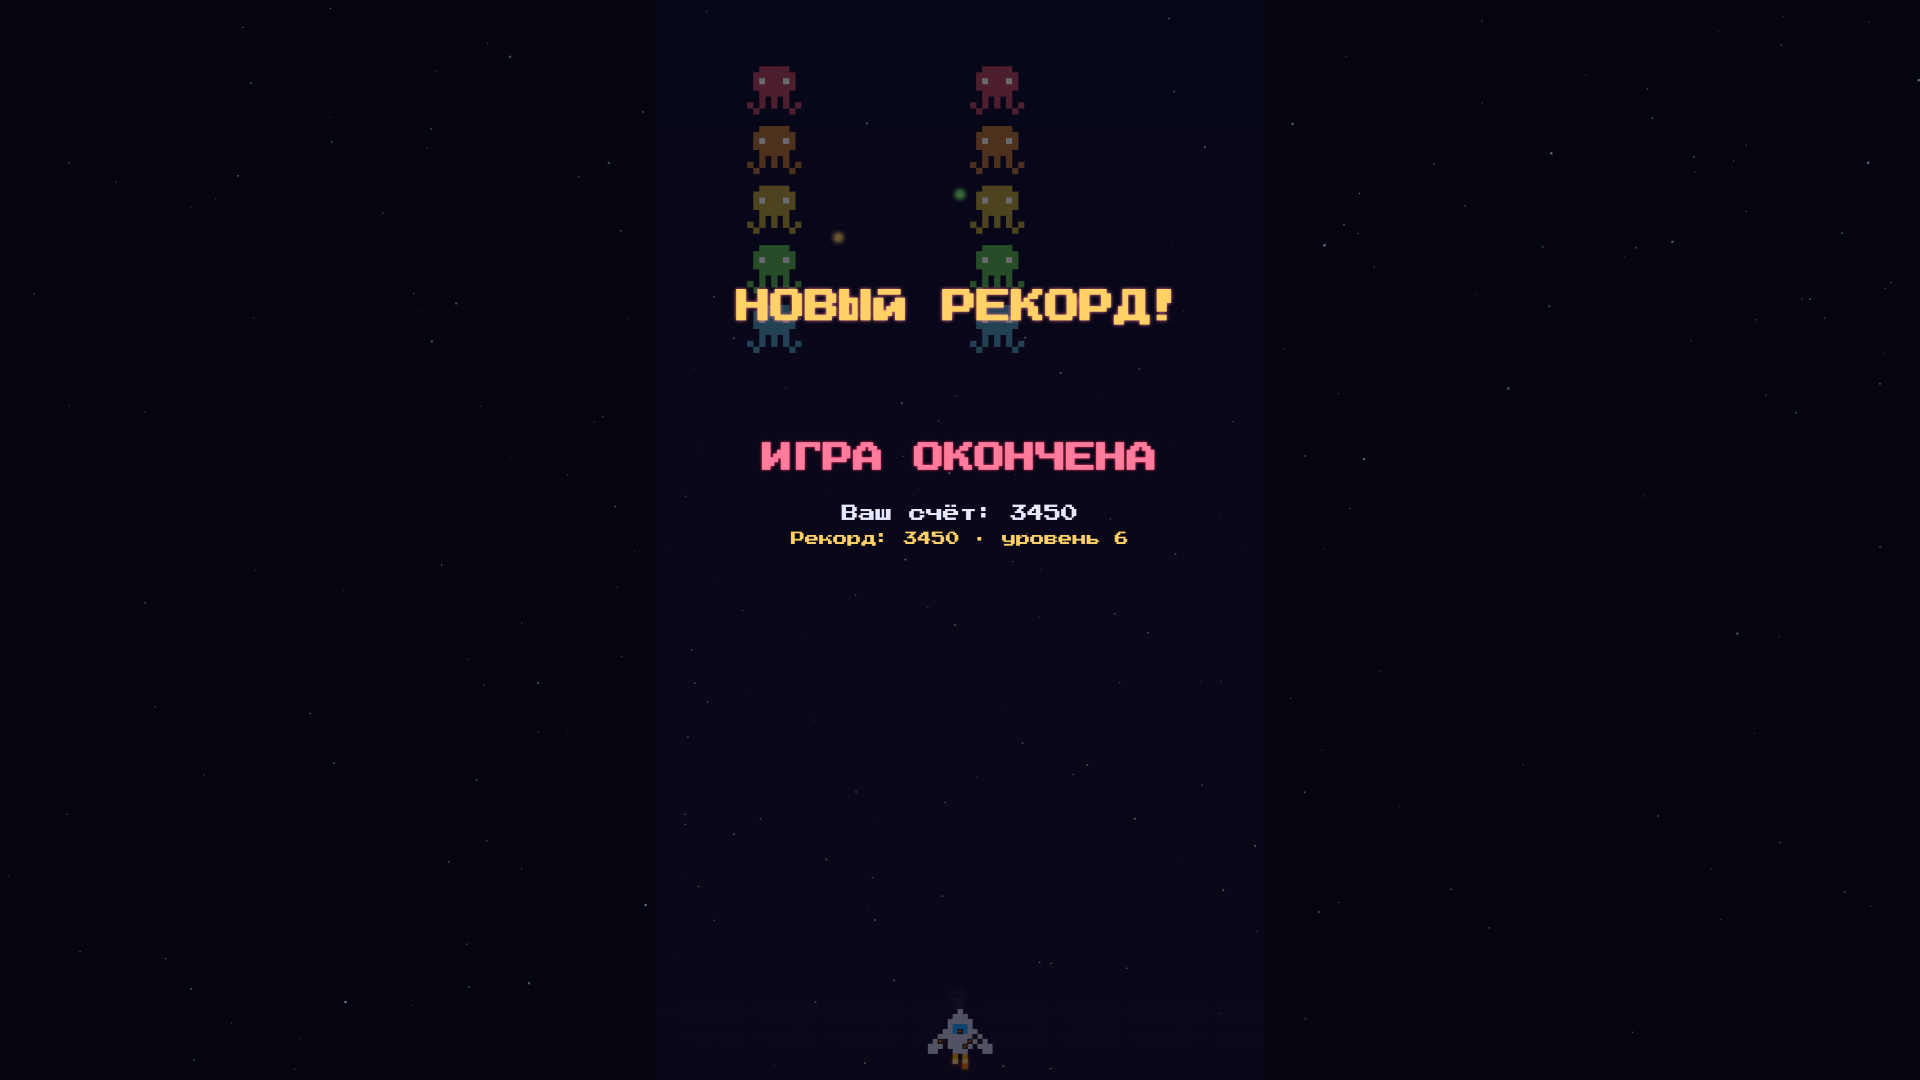
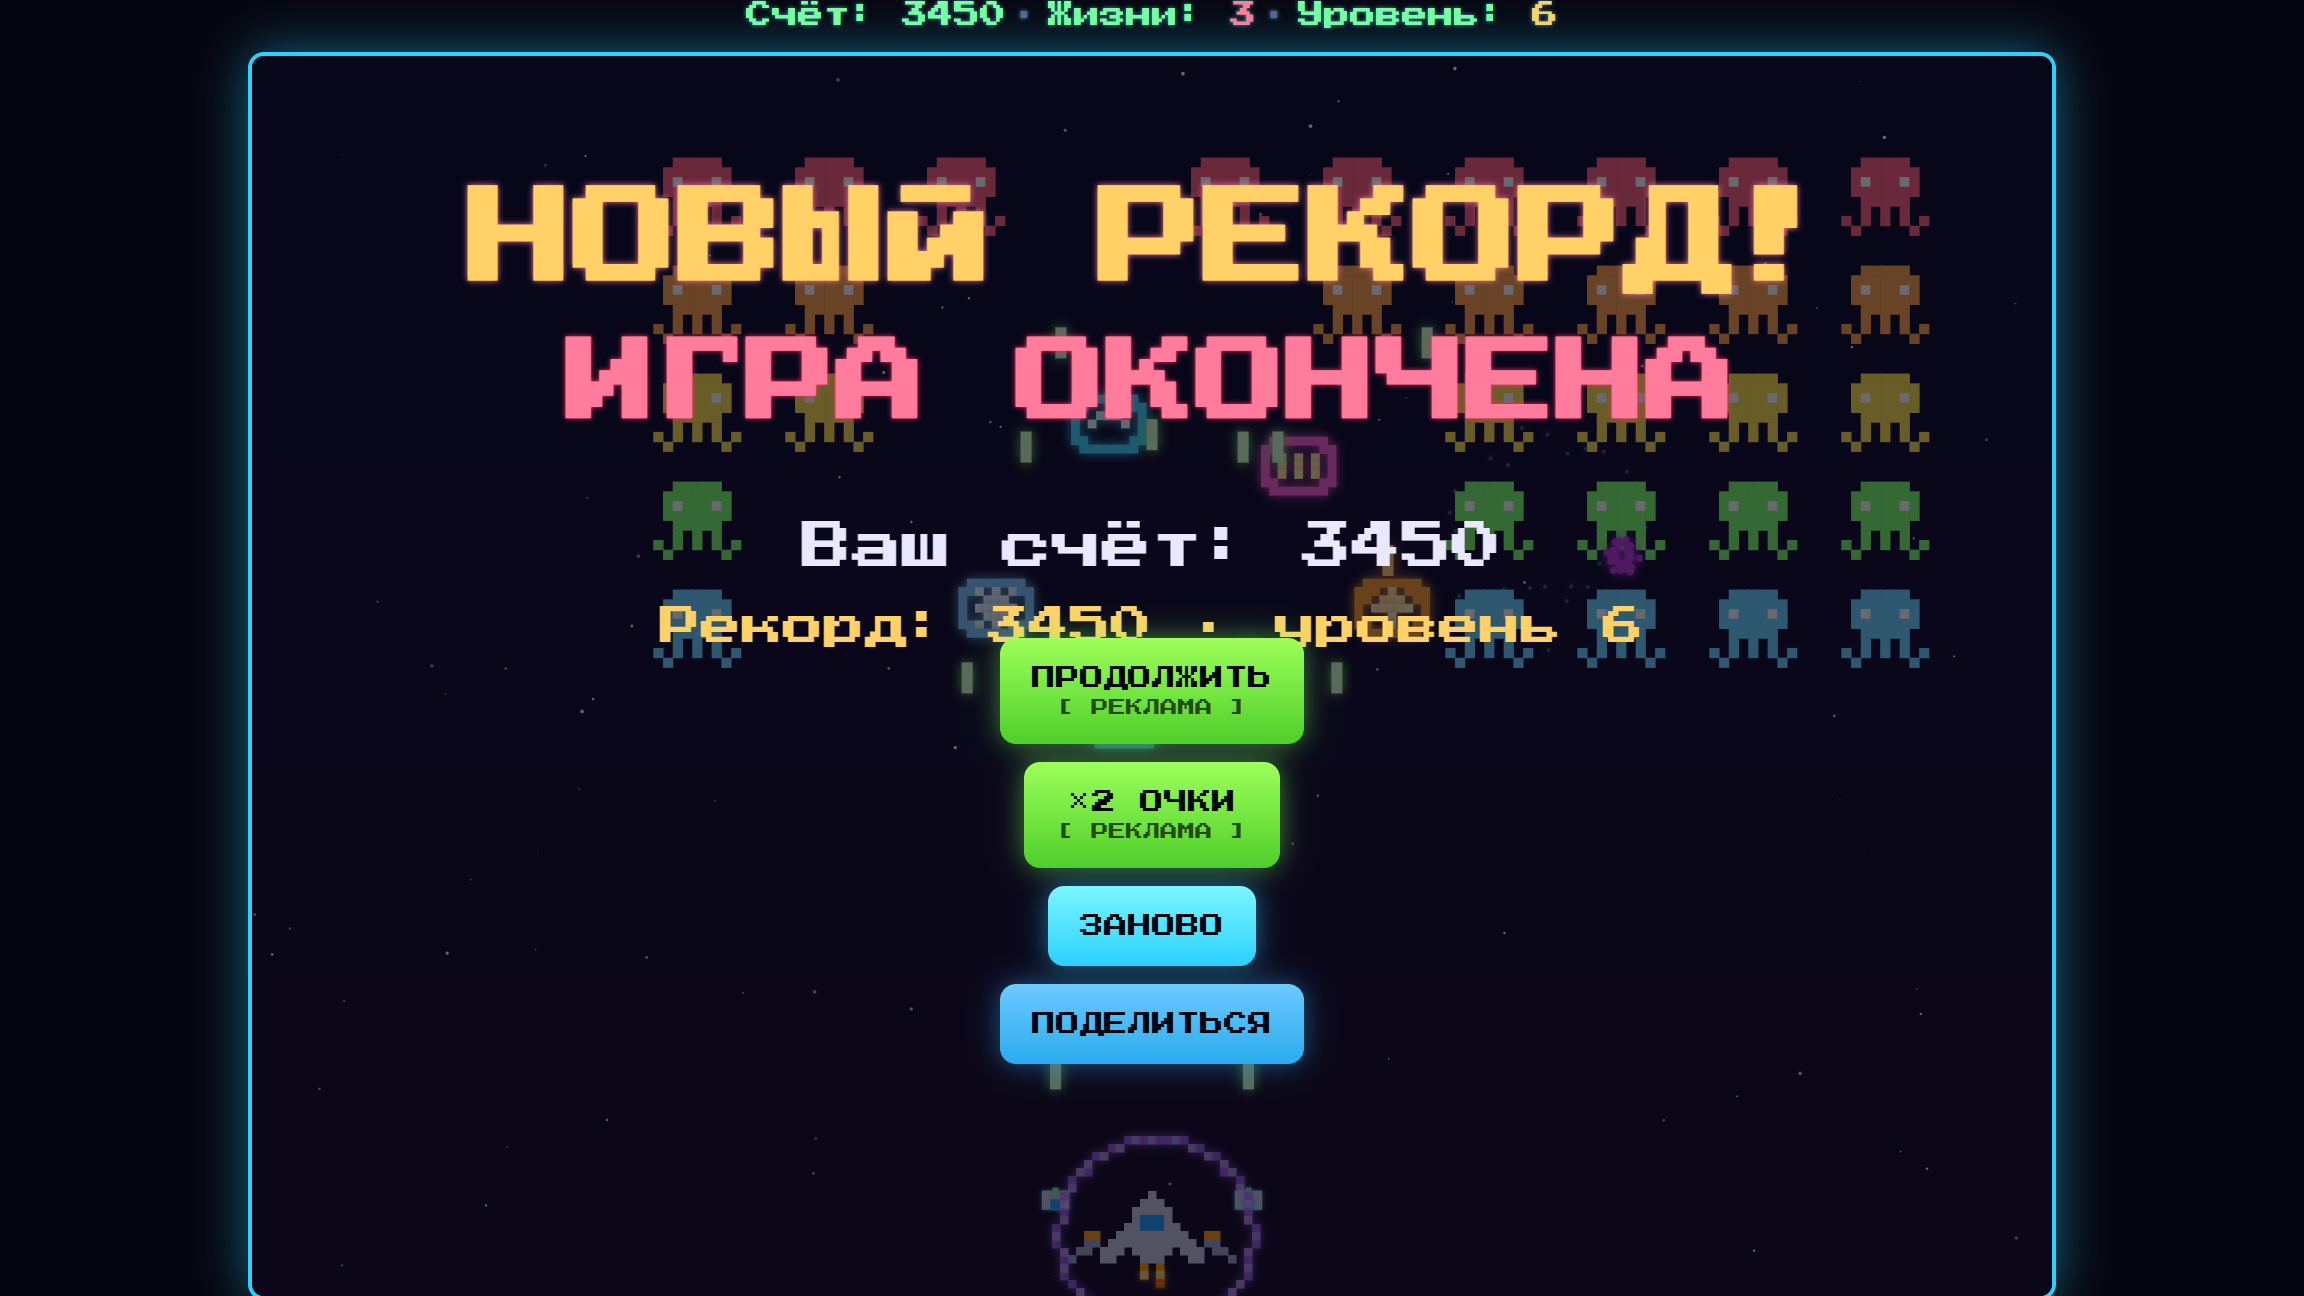
Яндекс: фиксы раунда-2 – старт после SDK, game-over без наложения, обложка и десктоп-скрины
Вердикт модерации (ID 547704), 5 замечаний:

- п.1.19 (GameReady late) + п.2.14 (язык через SDK late): старт движка отложен
  до готовности SDK и только в Яндекс-сборке. index.html: хвост загрузки обёрнут
  в startEngine(), при __yaDeferBoot он вызывается из yandex-inject.js. Язык из
  sdk.environment.i18n.lang применяется ДО первого кадра, LoadingAPI.ready() –
  сразу после старта. Обычные сборки (Telegram/Pages) стартуют как раньше.
  E2E с мок-SDK: до init ни одного кадра (fitCanvas не звался, холст пуст),
  на первом кадре язык из SDK, ready() ровно 1 раз, старт идемпотентен.
- п.1.10.3 (наложение на game-over): текст итога поднят, positionOverActions()
  привязывает стопку кнопок к 0.47h холста. Зазор текст–кнопки 62px (10% высоты).
- п.5.1.3 (обложка [ru] со старым именем): cover-ru и tma-cover-yandex
  перегенерены под "КОСМИЧЕСКИЕ ЖУКИ".
- п.8.2.2 (описание про ПК при заявленных iOS/Android): заявляем десктоп.
  Старые promo/screens-desktop были непригодны – портретная раскладка на широком
  экране, игра ~30% кадра (нарушение п.5.1.1.2 "геймплей ≥70%"). Пересняты 5+5
  кадров: 2304x1296 (16:9), 24-битный PNG, игра занимает 75.6% кадра.

Changed region(s): [[0.0938, 0.0, 0.9062, 1.0]]

diff --git a/index.html b/index.html
@@ -246,7 +246,7 @@
             display: none;
             position: absolute;
             z-index: 6;
-            top: 54%;
+            top: 60%;               /* ниже итогового текста (верхняя треть) – без наложения, п.1.10.3 */
             left: 50%;
             transform: translate(-50%, -50%);
             flex-direction: column;
@@ -1407,6 +1407,8 @@
             canvas.height = Math.round(cssH * dpr);
             computeLayout();
             rescaleEntities(oldW, oldH);
+            // Если открыт экран итога — пересчитать позицию стопки кнопок под новый холст.
+            if (document.body.classList.contains('state-over')) positionOverActions();
         }
 
         // ===== Звёздное небо =====
@@ -2561,14 +2563,17 @@
             ctx.textAlign = 'center';
             ctx.shadowColor = '#ff2b5e';
             ctx.shadowBlur = TEXT_GLOW_LARGE;
-            ctx.fillText(t('gameOver'), canvas.width / 2, canvas.height / 2 - bigSize * 2.2);
+            // Текст итога держим в верхней трети, чтобы он НЕ пересекался со стопкой
+            // кнопок (.over-actions, центр на 60% высоты) – п.1.10.3.
+            const overTop = canvas.height * 0.30;
+            ctx.fillText(t('gameOver'), canvas.width / 2, overTop);
             ctx.shadowBlur = 0;
             ctx.fillStyle = '#e8e8ff';
             ctx.font = `${smallSize}px ${FONT_FAMILY}`;
-            ctx.fillText(t('yourScore')(score), canvas.width / 2, canvas.height / 2 - bigSize * 0.6);
+            ctx.fillText(t('yourScore')(score), canvas.width / 2, overTop + bigSize * 1.6);
             ctx.fillStyle = '#ffd166';
             ctx.font = `${Math.round(smallSize * 0.82)}px ${FONT_FAMILY}`;
-            ctx.fillText(t('recordLine')(bestScore, bestLevel), canvas.width / 2, canvas.height / 2 - bigSize * 0.6 + smallSize * 1.4);
+            ctx.fillText(t('recordLine')(bestScore, bestLevel), canvas.width / 2, overTop + bigSize * 1.6 + smallSize * 1.5);
             ctx.textAlign = 'left';
         }
 
@@ -2584,7 +2589,9 @@
             ctx.fillStyle = '#ffd166';
             ctx.shadowColor = '#ff7c9c';
             ctx.shadowBlur = TEXT_GLOW_RECORD;
-            ctx.fillText(t('newRecord'), canvas.width / 2, canvas.height * 0.3);
+            // Выше заголовка «ИГРА ОКОНЧЕНА» (0.30h): при смерти вскоре после рекорда
+            // салют рисуется поверх экрана итога и не должен налезать на текст (п.1.10.3).
+            ctx.fillText(t('newRecord'), canvas.width / 2, canvas.height * 0.19);
             ctx.restore();
         }
 
@@ -2727,6 +2734,22 @@
             doubleBtn.style.display = (!usedDouble && score > 0) ? 'block' : 'none';
             shareBtn.style.display = (isTelegram || navigator.share) ? 'block' : 'none';
             lbBtnOver.style.display = LEADERBOARD_URL ? 'block' : 'none';
+            positionOverActions();
+        }
+
+        // Привязка стопки кнопок к геометрии холста. Текст итога (заголовок/счёт/
+        // рекорд) рисуется в координатах canvas в верхней трети, а кнопки абсолютны
+        // в .stage — без явной привязки их системы координат расходятся и на части
+        // экранов кнопки налезают на текст (это и поймала модерация, п.1.10.3).
+        // Ставим верх стопки на 0.47 высоты холста: текст кончается ~0.37h – зазор
+        // сохраняется на любом устройстве, кнопки растут вниз.
+        function positionOverActions() {
+            const oa = document.getElementById('overActions');
+            const parent = oa.offsetParent || document.body;
+            const pr = parent.getBoundingClientRect();
+            const cr = canvas.getBoundingClientRect();
+            oa.style.top = Math.round(cr.top - pr.top + cr.height * 0.47) + 'px';
+            oa.style.transform = 'translateX(-50%)';
         }
 
         // ===== Глобальный лидерборд (Cloudflare Worker + D1) =====
@@ -3183,18 +3206,28 @@
         window.addEventListener('resize', fitCanvas);
         window.addEventListener('orientationchange', function() { setTimeout(fitCanvas, 200); });
 
-        // Запуск единого цикла анимации
-        loadBest();
-        loadBestFromCloud();
-        loadDaily();
-        loadDailyFromCloud();
-        applyI18n();
-        refreshDailyButton();
-        if (!LEADERBOARD_URL) lbBtnMenu.style.display = 'none';   // топ не настроен — прячем кнопку
-        setUIState('menu');
-        fitCanvas();
-        lastTime = performance.now();
-        requestAnimationFrame(loop);
+        // Запуск единого цикла анимации. Обёрнут в startEngine(), чтобы сборка
+        // Яндекса могла отложить старт до инициализации SDK: язык из окружения
+        // применяется ДО первого кадра меню, а LoadingAPI.ready() вызывается ровно
+        // когда игра готова, а не после того как она уже играбельна (п.1.19, п.2.14).
+        function startEngine() {
+            loadBest();
+            loadBestFromCloud();
+            loadDaily();
+            loadDailyFromCloud();
+            applyI18n();
+            refreshDailyButton();
+            if (!LEADERBOARD_URL) lbBtnMenu.style.display = 'none';   // топ не настроен — прячем кнопку
+            setUIState('menu');
+            fitCanvas();
+            lastTime = performance.now();
+            requestAnimationFrame(loop);
+        }
+        // Обычные сборки (Telegram/Pages) стартуют сразу. В сборке Яндекса бутстрап
+        // в <head> ставит __yaDeferBoot – тогда старт вызывает yandex-inject.js после
+        // готовности SDK. Флаг проверяется здесь, до появления меню на экране.
+        if (window.__yaDeferBoot) { window.__startEngine = startEngine; }
+        else { startEngine(); }
     </script>
 </body>
 </html>

diff --git a/build/yandex-inject.js b/build/yandex-inject.js
@@ -21,22 +21,42 @@
         });
     }
 
-    // Вызывается из onload SDK-скрипта (<script async src="/sdk.js" onload="__initYaSDK()">)
+    // Старт движка отложен сборкой (__yaDeferBoot в <head>) до готовности SDK.
+    // startEngineOnce() применяет язык окружения и запускает игру ровно один раз —
+    // и только после этого игра становится играбельной (важно для п.1.19/п.2.14).
+    var engineStarted = false;
+    function startEngineOnce(lang) {
+        if (engineStarted) return;
+        engineStarted = true;
+        if (lang && SUPPORTED_LANGS.indexOf(lang) >= 0) { LANG = lang; }
+        if (typeof window.__startEngine === 'function') { window.__startEngine(); }
+    }
+
+    // Страховка: если SDK не поднялся (локальный прогон сборки без /sdk.js) —
+    // всё равно стартуем, чтобы не зависнуть на чёрном экране.
+    var bootFallback = setTimeout(function () { startEngineOnce(LANG); }, 4000);
+
+    // Вызывается из onload SDK-скрипта (<script async src="/sdk.js" onload="__initYaSDK()">).
+    // Идемпотентна: при гонке загрузки /sdk.js её дополнительно дёргает само-проверка ниже.
+    var sdkInitStarted = false;
     window.__initYaSDK = function () {
-        if (typeof YaGames === 'undefined') return;
+        if (sdkInitStarted || typeof YaGames === 'undefined') return;
+        sdkInitStarted = true;
         YaGames.init().then(function (sdk) {
             ysdk = sdk;
             window.ysdk = sdk;
-            // Язык из окружения Яндекса — чтобы игра переключалась вместе с интерфейсом
-            // Яндекса (модерация проверяет каждый заявленный язык через SDK).
+            // Язык из окружения Яндекса применяем ДО первого кадра меню, затем стартуем
+            // движок — так первый экран сразу на нужном языке (модерация проверяет
+            // каждый заявленный язык через SDK; п.2.14).
+            var yl = '';
             try {
-                var yl = sdk.environment && sdk.environment.i18n && sdk.environment.i18n.lang;
-                if (yl) {
-                    yl = String(yl).toLowerCase().split('-')[0];
-                    if (SUPPORTED_LANGS.indexOf(yl) >= 0 && yl !== LANG) { LANG = yl; applyI18n(); }
-                }
-            } catch (e) {}
+                yl = (sdk.environment && sdk.environment.i18n && sdk.environment.i18n.lang) || '';
+                yl = String(yl).toLowerCase().split('-')[0];
+            } catch (e) { yl = ''; }
+            clearTimeout(bootFallback);
+            startEngineOnce(yl);
             // Обязательно: сообщаем платформе, что игра загрузилась и готова к игре.
+            // Вызывается сразу после старта движка — раньше игра недоступна для играния (п.1.19).
             try { if (sdk.features && sdk.features.LoadingAPI) sdk.features.LoadingAPI.ready(); } catch (e) {}
 
             // Rewarded-реклама Яндекса вместо Adsgram (кнопки «Продолжить» и «×2 очки»).
@@ -62,8 +82,16 @@
                 }).catch(function () {});
                 loadTop(true);
             }).catch(function () {});
-        }).catch(function () {});
+        }).catch(function () {
+            // Инициализация SDK не удалась — всё равно стартуем игру без облачных функций.
+            clearTimeout(bootFallback);
+            startEngineOnce(LANG);
+        });
     };
+
+    // Если /sdk.js успел загрузиться до объявления __initYaSDK (гонка async-скрипта),
+    // его onload мог не застать обработчик — дёргаем инициализацию вручную.
+    if (typeof YaGames !== 'undefined') { window.__initYaSDK(); }
 
     // Отправка рекорда в лидерборд — оборачиваем существующий saveBest().
     var _saveBest = saveBest;
